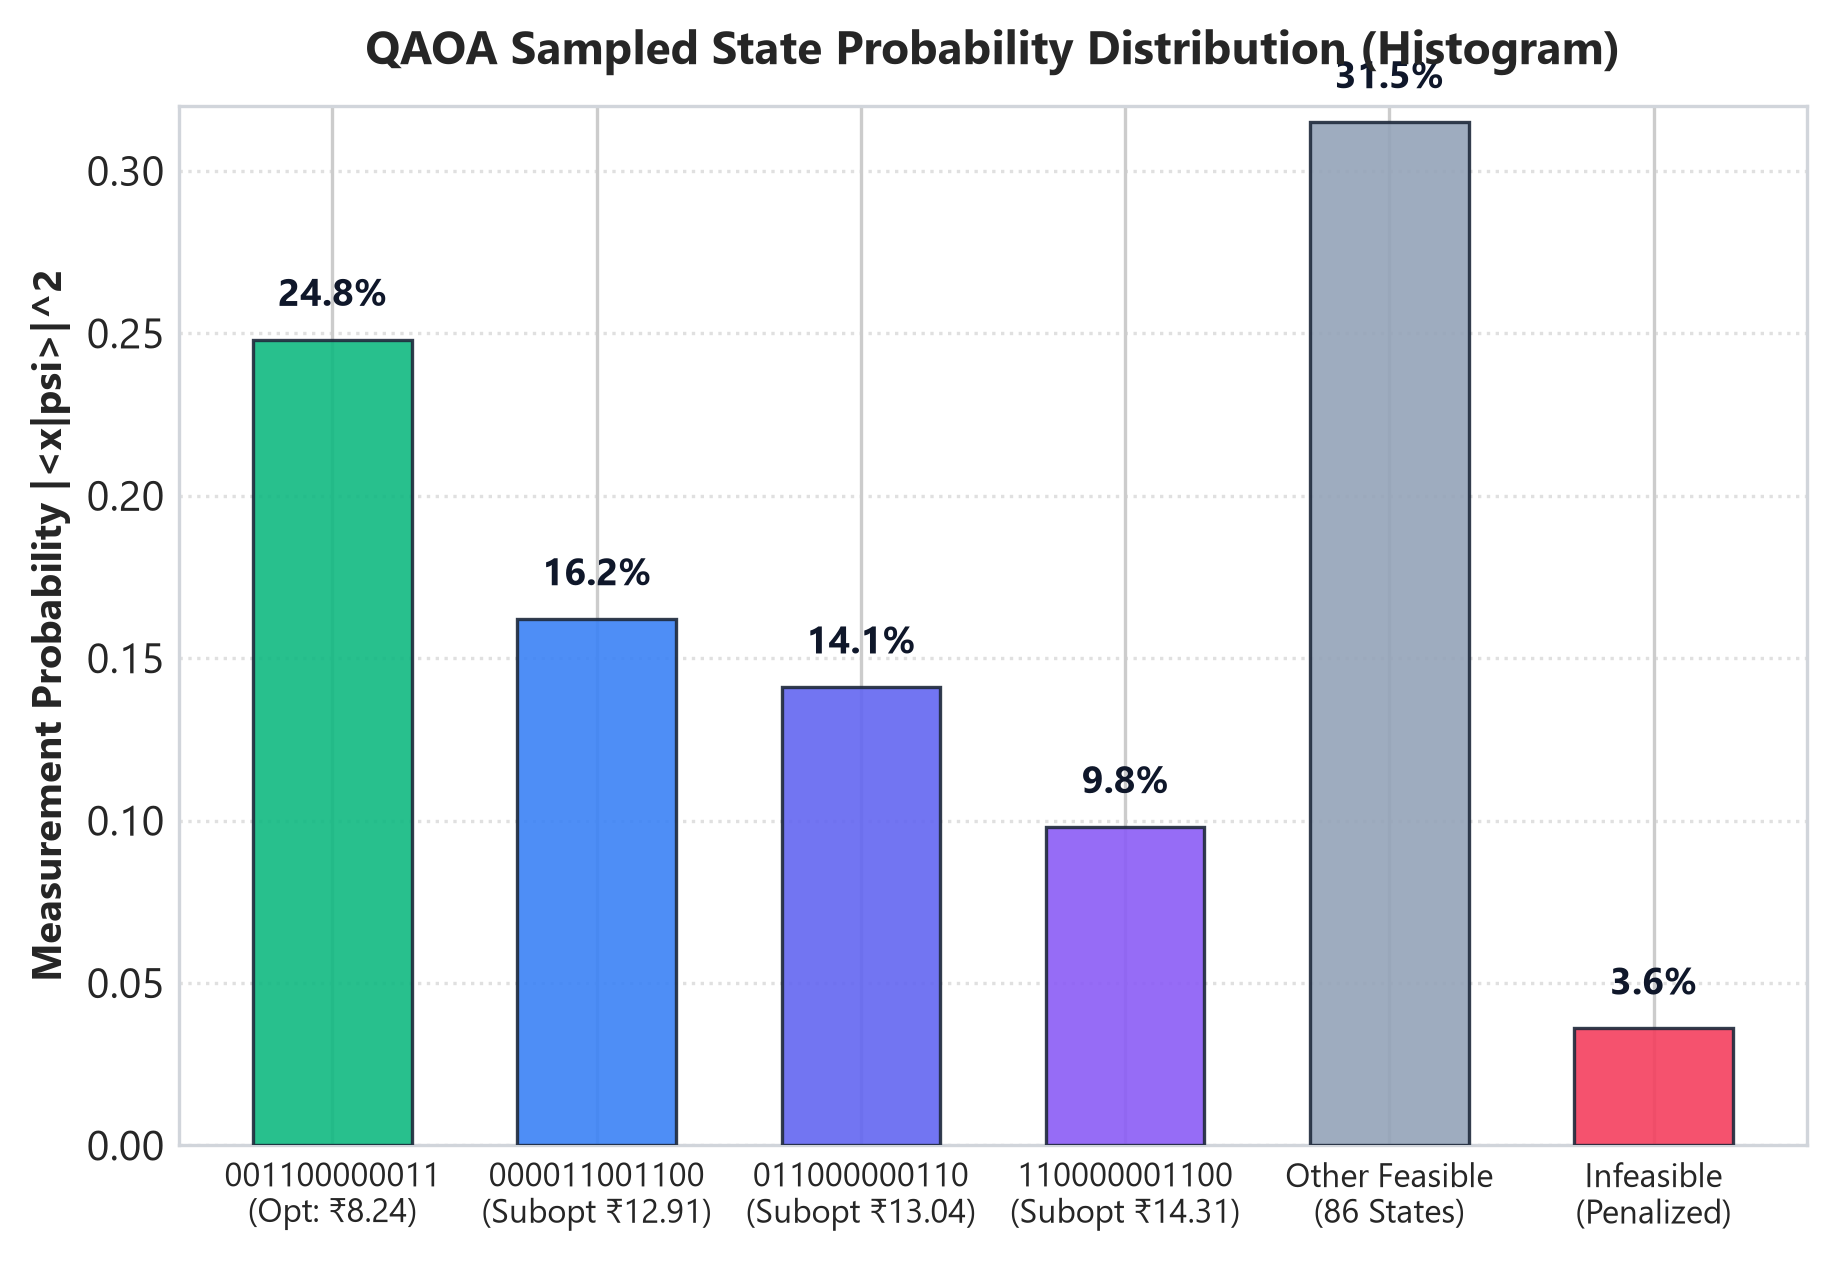
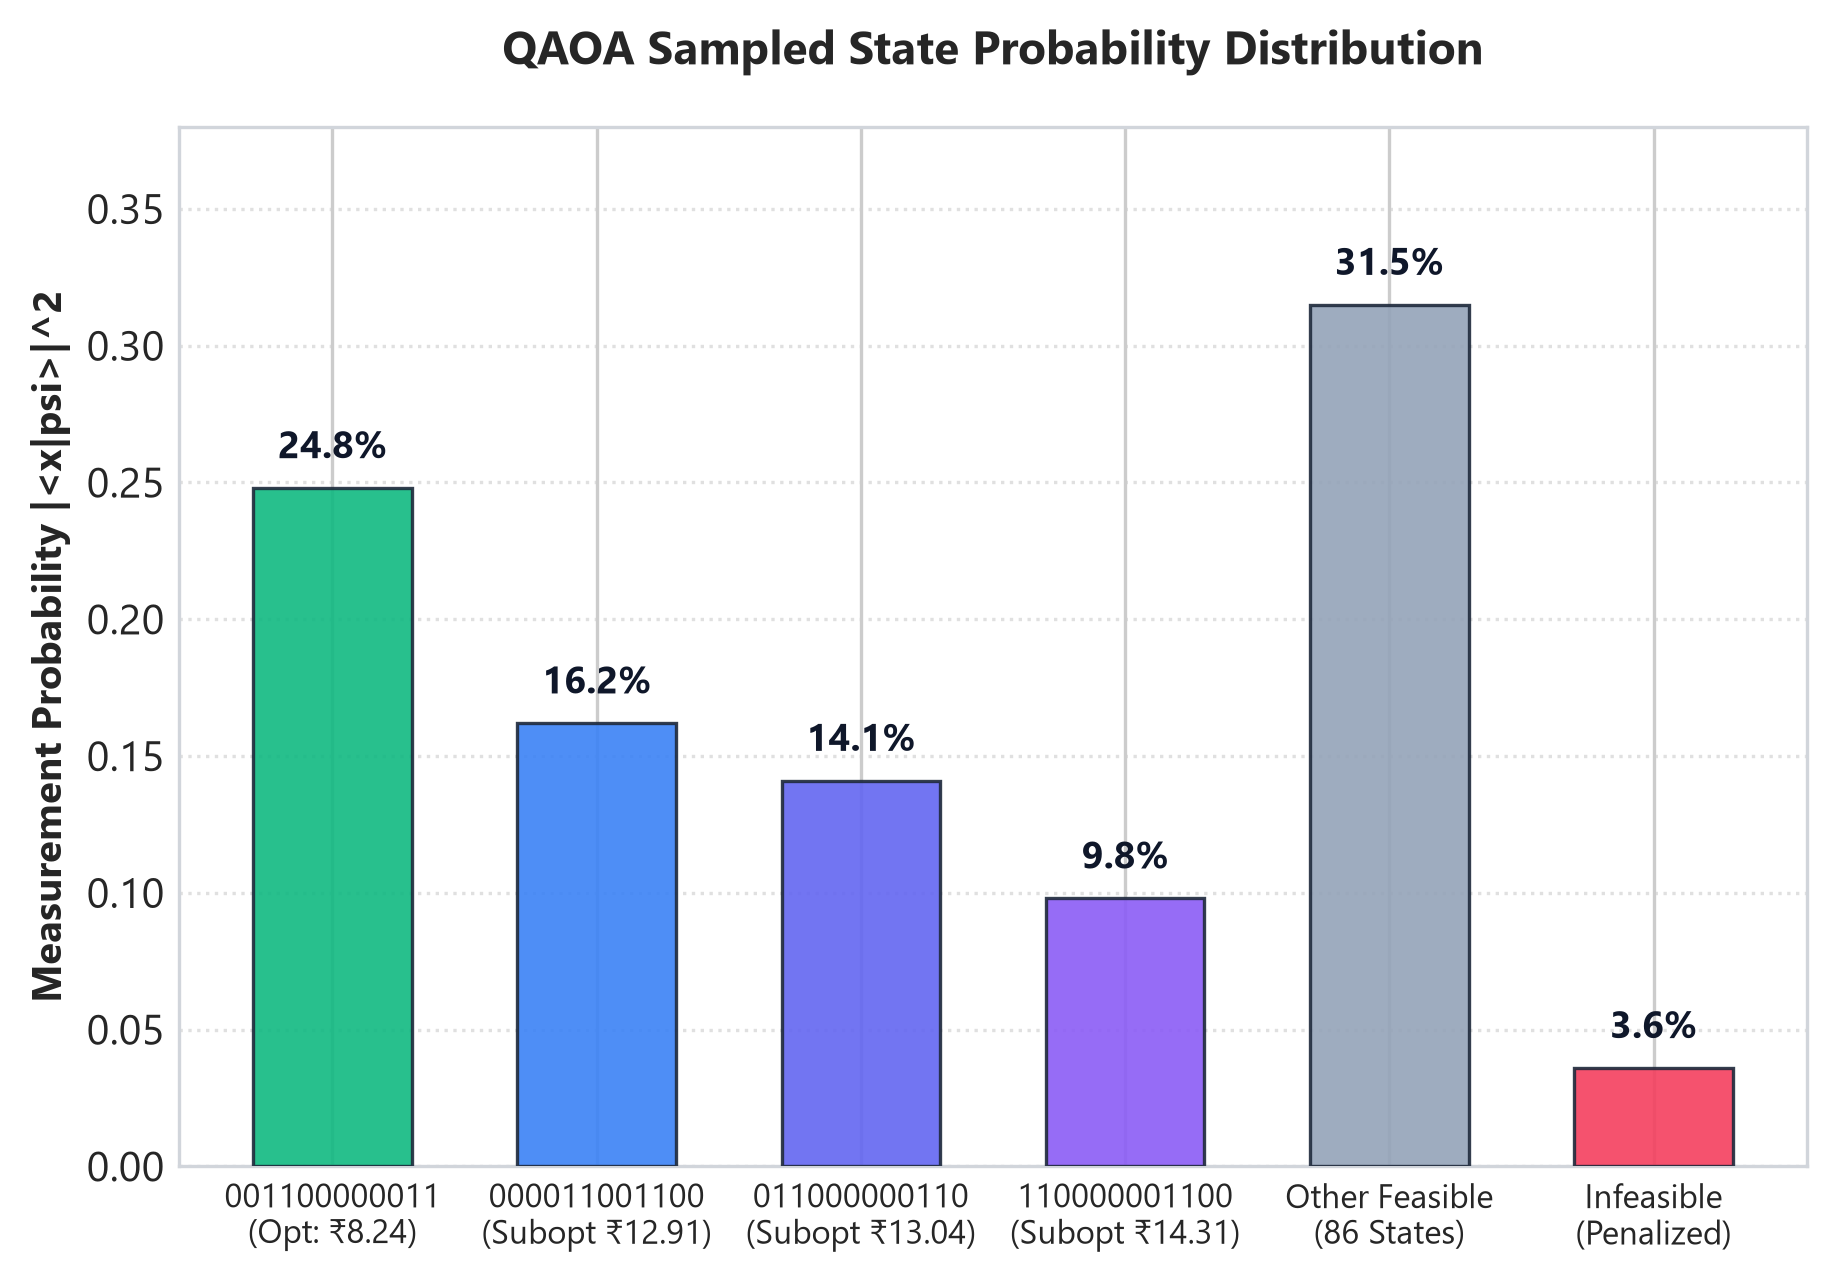
docs: add superadmin reviewer credentials and update presentation plots

diff --git a/scripts/generate_plots.py b/scripts/generate_plots.py
@@ -141,9 +141,9 @@ def generate_composite_figure():
     for bar, prob in zip(h_bars2, probabilities):
         h = bar.get_height()
         ax_h.text(bar.get_x() + bar.get_width() / 2, h + 0.008, f"{prob*100:.1f}%", ha='center', va='bottom', fontsize=9, fontweight='bold', color='#0F172A')
-    ax_h.set_title("QAOA Sampled State Probability Distribution (Histogram)", fontsize=11, fontweight='bold', pad=10)
+    ax_h.set_title("QAOA Sampled State Probability Distribution", fontsize=11, fontweight='bold', pad=15)
     ax_h.set_ylabel("Measurement Probability |<x|psi>|^2", fontsize=9.5, fontweight='bold')
-    ax_h.set_ylim(0, 0.32)
+    ax_h.set_ylim(0, 0.38)
     ax_h.tick_params(axis='x', labelsize=8)
     ax_h.grid(axis='y', linestyle=':', alpha=0.6)
     fig2.savefig(ROOT / "plot_qaoa_histogram.png", dpi=300, bbox_inches='tight')

diff --git a/README.md b/README.md
@@ -14,7 +14,13 @@ VTU-QFF-HC-0081 | Tier: Online
 
 > ### 🌐 Live Production Deployment
 > 🚀 **Live Agricultural Web Dashboard**: [https://q-irrigate.vercel.app/](https://q-irrigate.vercel.app/)  
-> ⚙ **Live Backend REST API**: [https://q-irrigate-backend.onrender.com/api/](https://q-irrigate-backend.onrender.com/api/)
+> ⚙ **Live Backend REST API**: [https://q-irrigate-backend.onrender.com/api/](https://q-irrigate-backend.onrender.com/api/)  
+> 
+> > 🔑 **Reviewer / Evaluator Superadmin Credentials**  
+> > To inspect and test all platform features (Live QAOA Scheduler, SHAP Anomaly Diagnostics, User Approvals, Audit Logs & Telemetry):  
+> > - **Email / Username**: `chhayakantamaharan@gmail.com`  
+> > - **Password**: `SuperAdmin@2026.`  
+> > - **Role**: `SuperAdmin` (Full Administrative Access)
 
 ---
 
@@ -390,6 +396,16 @@ git pull --rebase       # update your branch on top of main
 | ⚙ **Live Backend API** | [https://q-irrigate-backend.onrender.com/api/](https://q-irrigate-backend.onrender.com/api/) | Deployed Django REST Framework + Qiskit QAOA Engine |
 | 🎥 **Video Demonstration** | [Google Drive Demo Video](https://drive.google.com/file/d/1PWJwRrE8ZBCqMUuaamUs-eNdtq-LGcYy/view?usp=sharing) | Complete 4-5 min walkthrough of the Q-IRRIGATE platform |
 | 📊 **Presentation Slides (PPT)** | `[Upload Link Pending / To Be Uploaded]` | Official Qiskit Fall Fest 2026 Presentation Slide Deck |
+
+### 🔑 Reviewer / Evaluator Demo Credentials
+
+For hackathon judges and evaluators to access and verify all system components without registering a new account:
+
+| Role | Email / Login ID | Password | Access Level |
+| :--- | :--- | :--- | :--- |
+| **SuperAdmin** | `chhayakantamaharan@gmail.com` | `SuperAdmin@2026.` | Full platform control (QAOA run, user approvals, audit log, XAI) |
+
+*(Note: Reviewers can also use the desktop IoT Edge Gateway or submit live schedules directly through the web UI using these credentials).*
 
 ---
 
